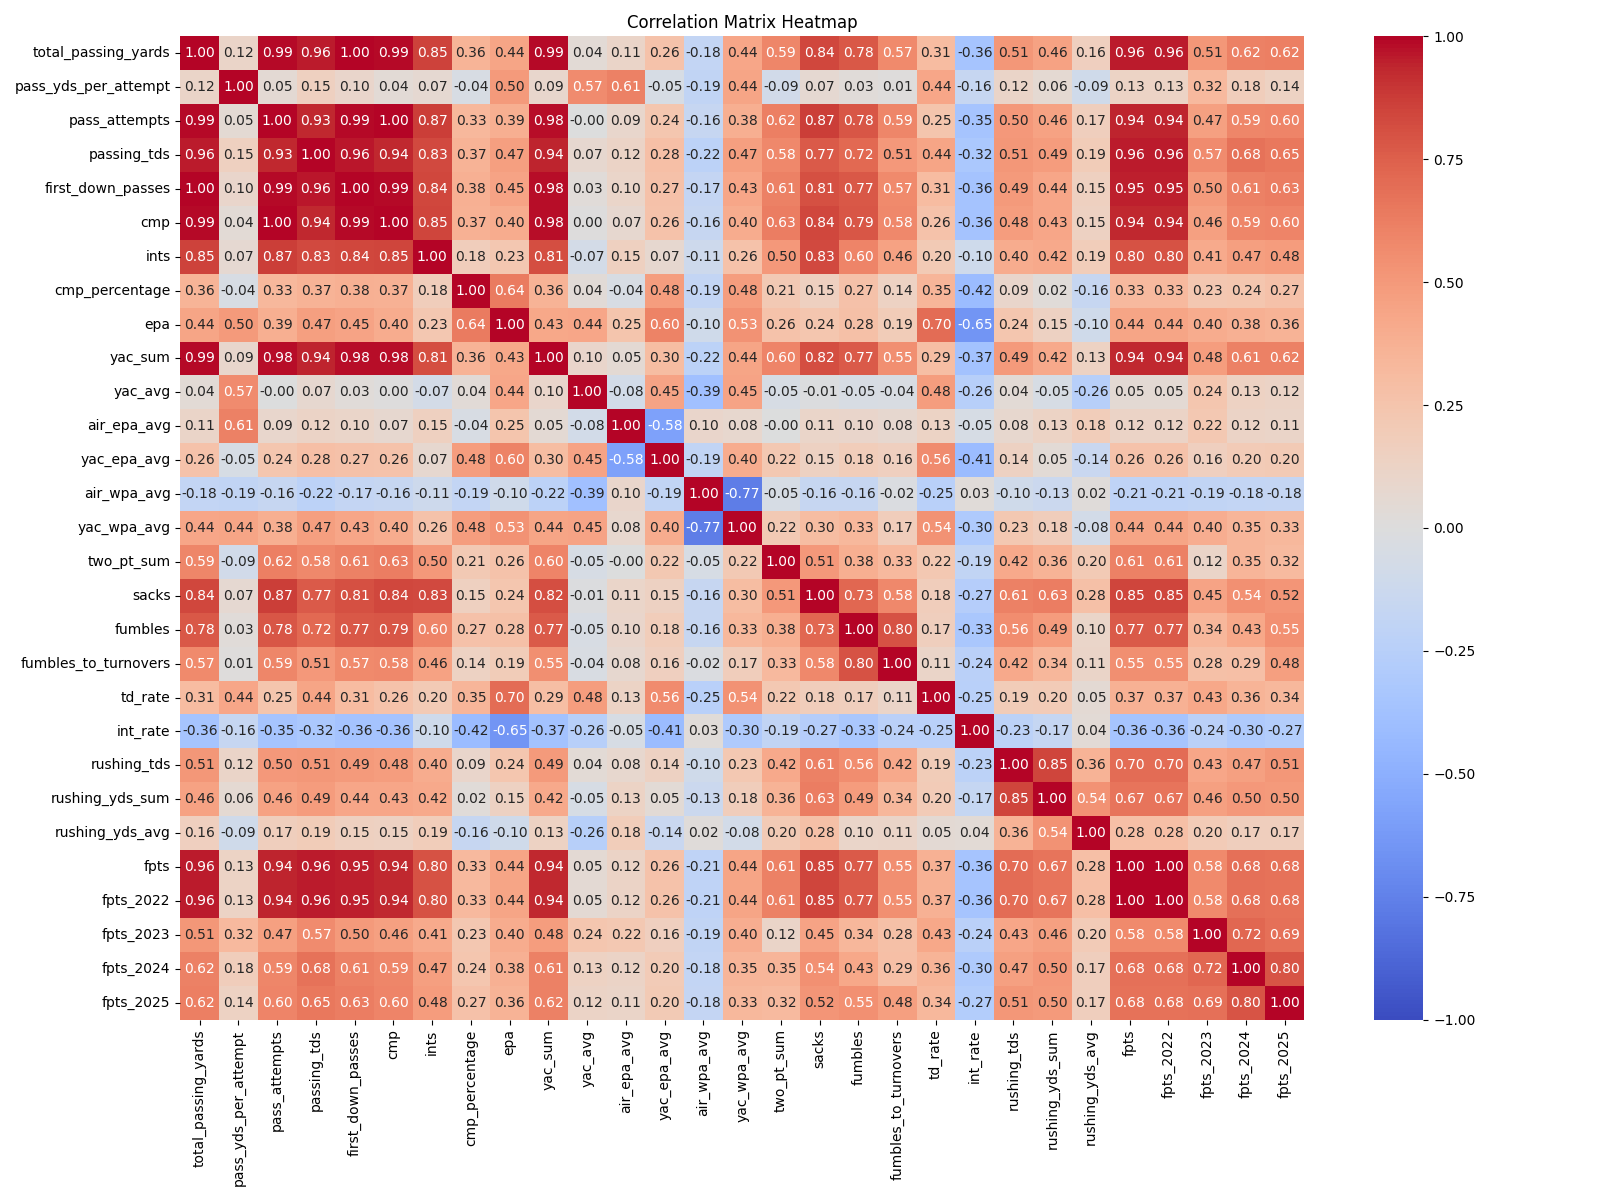
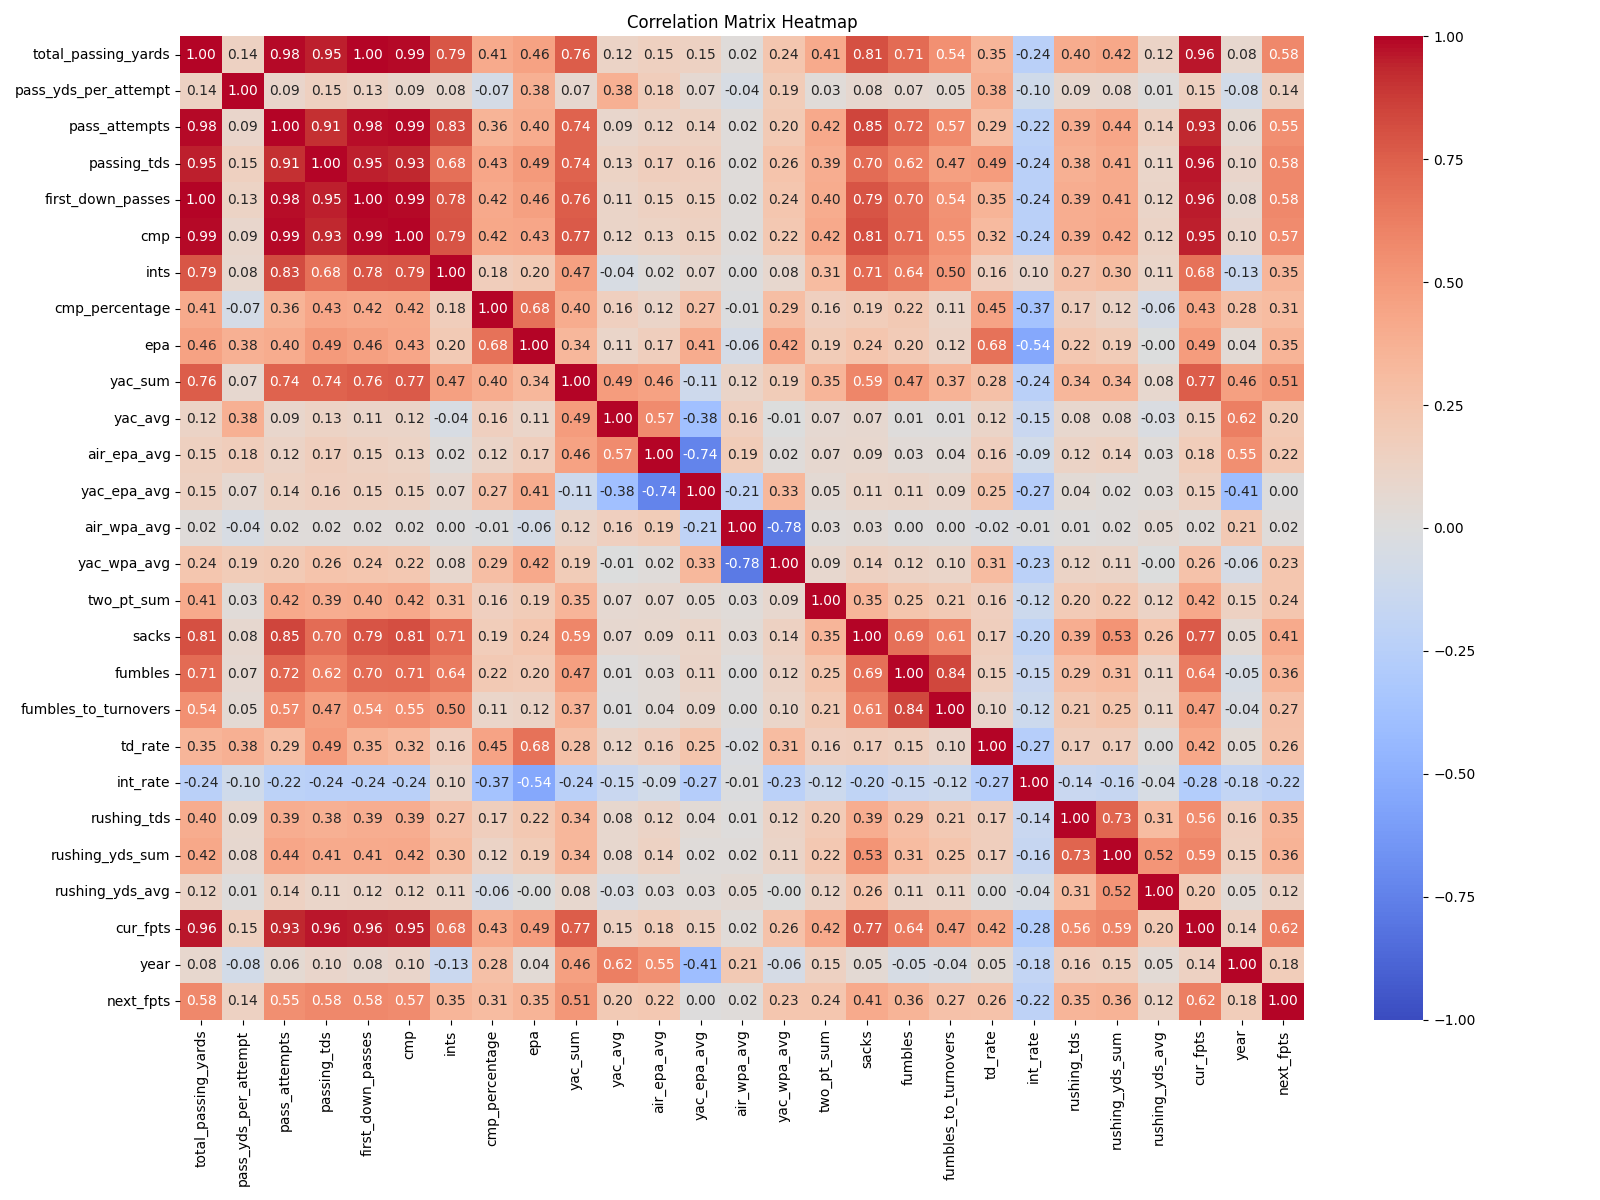
updated heatmap

diff --git a/exploration/qb_eda.py b/exploration/qb_eda.py
@@ -4,7 +4,7 @@ import matplotlib.pyplot as plt
 import seaborn as sns
 
 def main():
-    df = pd.read_csv('data/qb_2022.csv')
+    df = pd.read_csv('data/qb_historical.csv')
 
     numeric = df.select_dtypes(include='number')
 
